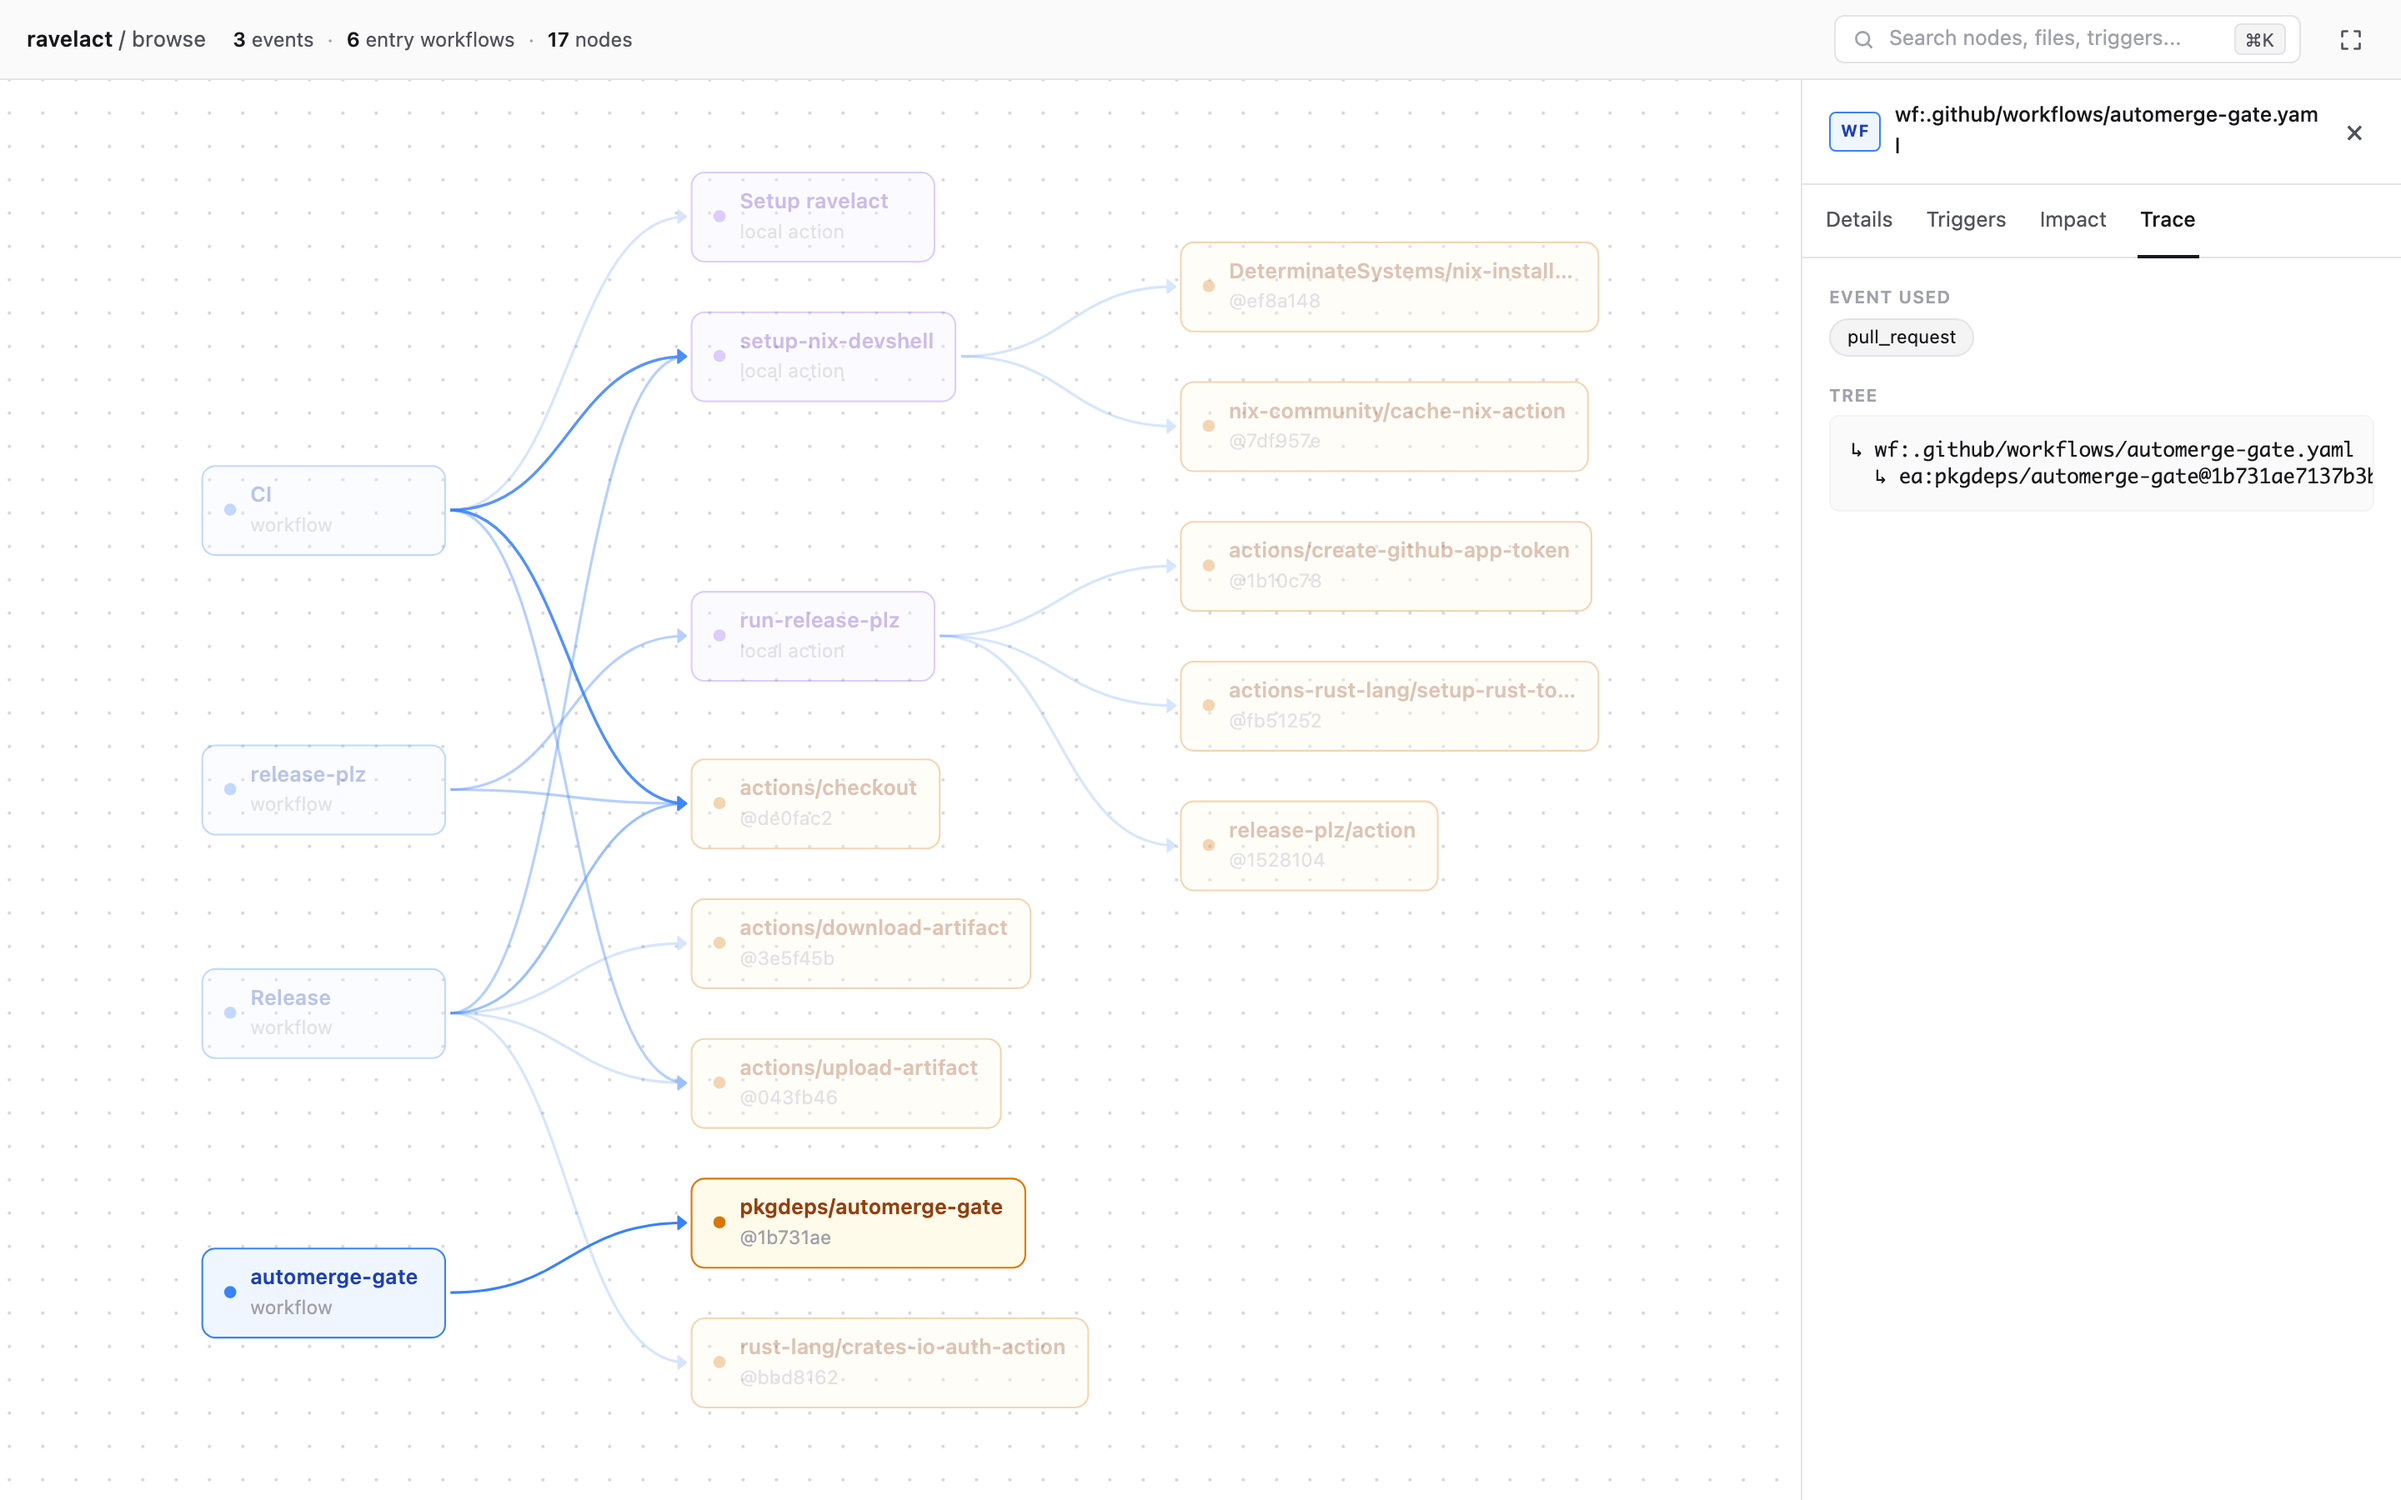
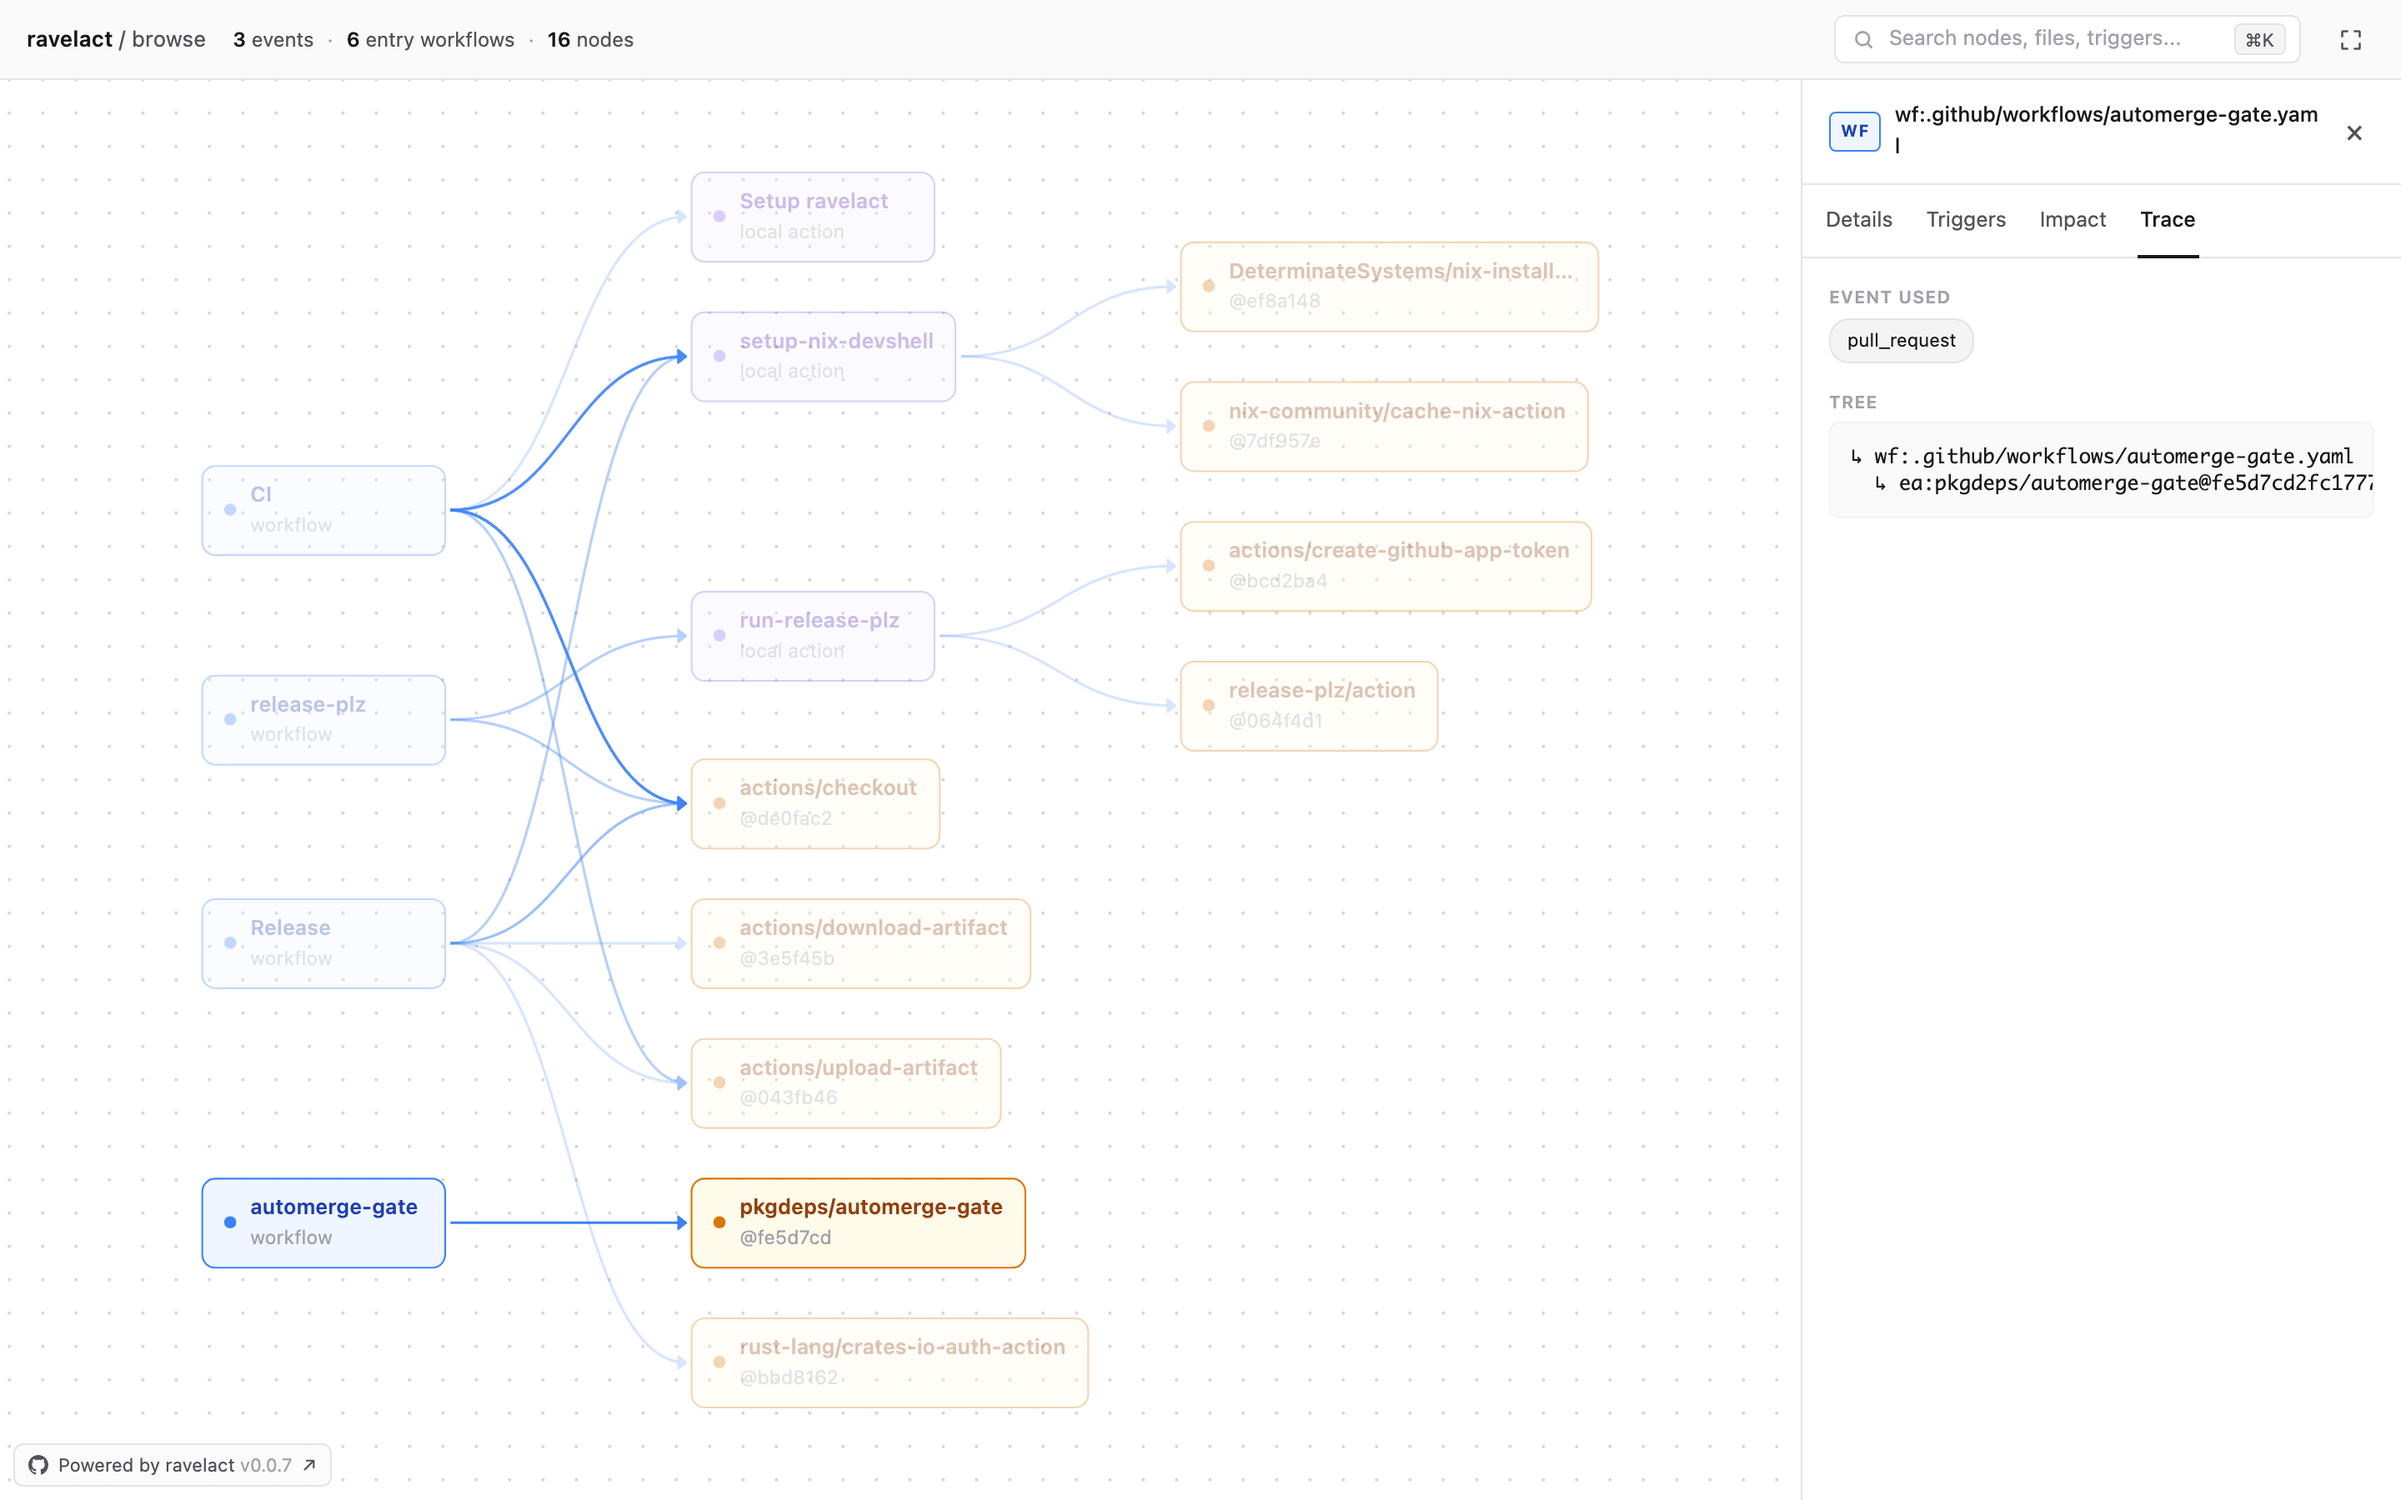
docs(readme): refresh browse screenshots (#54)
## Summary

Regenerate the four browse screenshots committed under
`docs/images/browse-*.png` (referenced from the hero image and the
Browse section of `README.md`). The previous bytes were captured at #37
and had drifted from later UI changes — re-resizable right pane (#43),
`if:` surfacing in the Details tab (#42), the workflow estate being
tidied to 16 nodes — plus the post-ConnectRPC binary version pill
(v0.0.7).

Refreshing the PNGs required a small fix to
`web/scripts/snapshot-readme.ts`: the four `page.waitForResponse(...)`
matchers still pointed at the legacy
`/api/{trace,event-impact,impact,search}` JSON endpoints, which were
removed in #45 when browse migrated to Protocol Buffers + ConnectRPC.
Without that fix the script timed out at 10s and produced no PNGs.

Commits:

- `docs(readme): refresh browse screenshots` — regenerates the 4 PNGs
and points the four `waitForResponse` regexes at the new
`/ravelact.browse.v1.BrowseService/{Trace,GetEventImpact,GetImpact,Search}`
routes.
- `refactor(snapshot-readme): extract waitForRpc helper for ConnectRPC
routes` — collapses the repeated `BrowseService` literal into a single
`waitForRpc(page, method)` helper typed by a `"Trace" | "GetEventImpact"
| "GetImpact" | "Search"` union, and tightens the trailing anchor from
`(\?|$)` to non-capturing `(?:\?|$)`.

Verified with `nix develop -c just snapshot-readme` (verify mode) — all
four PNGs reported `unchanged`, and `pnpm typecheck` is clean.

## References
[…]

diff --git a/web/scripts/snapshot-readme.ts b/web/scripts/snapshot-readme.ts
@@ -326,14 +326,25 @@ async function waitForFadedNonEmpty(page: Page): Promise<void> {
   );
 }
 
+const BROWSE_SERVICE = "ravelact.browse.v1.BrowseService";
+type BrowseRpcMethod = "Trace" | "GetEventImpact" | "GetImpact" | "Search";
+
+// ConnectRPC unary routes are `/<service>/<method>`; Connect-GET appends `?…`.
+// Anchor on `?` or end-of-string so a future sibling method that shares a
+// prefix (hypothetical `TraceDeep`) cannot satisfy the matcher.
+function waitForRpc(page: Page, method: BrowseRpcMethod) {
+  const re = new RegExp(`/${BROWSE_SERVICE.replace(/\./g, "\\.")}/${method}(?:\\?|$)`);
+  return page.waitForResponse((r) => re.test(r.url()) && r.ok(), {
+    timeout: FETCH_TIMEOUT_MS,
+  });
+}
+
 async function captureHero(ctx: CaptureContext, outPath: string): Promise<string> {
   await ctx.page.goto(ctx.baseUrl);
   await settleGraph(ctx.page);
   const id = await tapFirstWorkflow(ctx.page);
   await ctx.page.waitForSelector('[role="tab"][data-tab="trace"]');
-  const tracePromise = ctx.page.waitForResponse((r) => /\/api\/trace\?/.test(r.url()) && r.ok(), {
-    timeout: FETCH_TIMEOUT_MS,
-  });
+  const tracePromise = waitForRpc(ctx.page, "Trace");
   await ctx.page.click('[role="tab"][data-tab="trace"]');
   await tracePromise;
   await ctx.page.waitForSelector('[role="tab"][data-tab="trace"][aria-selected="true"]');
@@ -350,10 +361,7 @@ const OVERVIEW_EVENT = "push";
 async function captureOverview(ctx: CaptureContext, outPath: string): Promise<void> {
   await backgroundTap(ctx.page);
   await ctx.page.waitForSelector('aside[aria-label="Graph overview"]');
-  const eventImpactPromise = ctx.page.waitForResponse(
-    (r) => /\/api\/event-impact\?/.test(r.url()) && r.ok(),
-    { timeout: FETCH_TIMEOUT_MS },
-  );
+  const eventImpactPromise = waitForRpc(ctx.page, "GetEventImpact");
   await ctx.page
     .locator('aside[aria-label="Graph overview"] button', { hasText: OVERVIEW_EVENT })
     .first()
@@ -371,9 +379,7 @@ async function captureNodeDetail(ctx: CaptureContext, outPath: string): Promise<
   // a top-level workflow whose Impact is empty.
   await tapFirstLocalAction(ctx.page);
   await ctx.page.waitForSelector('[role="tab"][data-tab="impact"]');
-  const impactPromise = ctx.page.waitForResponse((r) => /\/api\/impact\?/.test(r.url()) && r.ok(), {
-    timeout: FETCH_TIMEOUT_MS,
-  });
+  const impactPromise = waitForRpc(ctx.page, "GetImpact");
   await ctx.page.click('[role="tab"][data-tab="impact"]');
   await impactPromise;
   await ctx.page.waitForSelector('[role="tab"][data-tab="impact"][aria-selected="true"]');
@@ -386,9 +392,7 @@ async function captureSearch(ctx: CaptureContext, outPath: string): Promise<void
   await ctx.page.waitForSelector('input[aria-label="Search nodes, files, and triggers"]');
   // Register the response listener BEFORE the fill so the
   // App.tsx:41 debounce (120ms) does not race ahead of us.
-  const searchPromise = ctx.page.waitForResponse((r) => /\/api\/search\?/.test(r.url()) && r.ok(), {
-    timeout: FETCH_TIMEOUT_MS,
-  });
+  const searchPromise = waitForRpc(ctx.page, "Search");
   await ctx.page.fill('input[aria-label="Search nodes, files, and triggers"]', "ci");
   await searchPromise;
   await waitForFadedNonEmpty(ctx.page);
